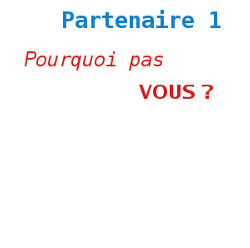
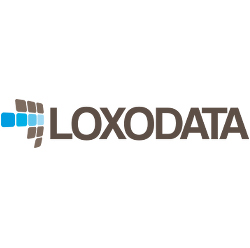
Révision agencement page home Ajout fil twitter Ajout pgday.paris (pas dans le footer c'est moche) Révision des cadres de partenaires

diff --git a/index.html b/index.html
@@ -113,69 +113,63 @@
 	     </div>
 	</div>
 </div>
+
+<section class="container">
+<div class="row">
+  <div class="col-xs-12 col-md-2 col-lg-2">
+  	<div class="logoBottom"><a href="http://pgday.paris"><img src="img/pgdayparis.png" alt="PGDay Paris"></a></div>
+  </div>
+
+  <div class="col-xs-12 col-md-6 col-lg-6">
+  	<h2>PGDay Paris et Belfort</h2>
+	<p>En 2015, deux évènements PostgreSQL auront lieu en France.
+	<br />Un pgDay à Paris le 21 avril et un à Belfort, le 2 juin.</p>
+	<p>Ces évènements sont organisés conjointement, en particulier avec le même comité de sélection des conférences.
+	<br />L'évènement Belfortain a pour objectif de présenter des exemples réussis d'adoption de PostgreSQL et de répondre aux questions 
+	des DSI françaises autour de l'adoption de PostgreSQL. L'événement parisien, plus international, se veut aussi plus technique.</p>
+	<p>Pour plus d'information sur l'événement de Paris, rendez-vous sur leur <a href="http://pgday.paris">site.</a></p>
+  </div>
+ 
+
+  <div class="col-xs-12 col-md-4 col-lg-4">
+  <h2>Twitter</h2>
+  <div class="panel panel-default">       	
+     <div class="panel-heading">
+        <p><small>Suivez le hashtag <a href="http://twitter.com/hashtag/pgday"><i class="fa fa-twitter"></i> #pgday</a>
+        pour les dernières informations</small></p>
+     </div>
+ 	<a class="twitter-timeline" href="https://twitter.com/hashtag/pgdaybelfort" data-widget-id="570719868123885568" height="388" data-chrome="noborders">Tweets sur #pgdaybelfort</a>
+ 	<script>!function(d,s,id){var js,fjs=d.getElementsByTagName(s)[0],p=/^http:/.test(d.location)?'http':'https';if(!d.getElementById(id)){js=d.createElement(s);js.id=id;js.src=p+"://platform.twitter.com/widgets.js";fjs.parentNode.insertBefore(js,fjs);}}(document,"script","twitter-wjs");</script>
+ </div>
+ </div>
+ 
+</div>
+</section>
+
+<section class="sponsors">
 <div class="container"><!-- Sponsors / Partenaires -->
 	<h4 class="margin-top">Partenaires de l'évènement</h4>
 	<div class="row">
-		<div class="col-xs-12 col-sm-6 col-md-3 img-gallery">
-			<div class="gallery-page-wrap">
-				<h5><a href="http://www.loxodata.com"><img src="img/sponsors/loxologo.png" alt="Loxodata"></a> </h5>
-				<p>Loxodata fournit de l'expertise, des formations et du conseil autour de PostgreSQL.</p>
-			</div>
+		<div class="col-xs-12 col-sm-3 col-md-3 panel panel-info">
+			<h5><a href="http://www.loxodata.com"><img src="img/sponsors/loxologo.png" alt="Loxodata"></a> </h5>
+			<p>Loxodata fournit de l'expertise, des formations et du conseil autour de PostgreSQL.</p>
 		</div>   
-		<div class="col-xs-12 col-sm-6 col-md-3 img-gallery">
-			<div class="gallery-page-wrap">
-				<h5><a href="http://2ndquadrant.com"><img src="img/sponsors/2ndquadrant_logo_full_color.jpg" alt="2nd Quadrant"></a> </h5>
-				<p>2ndQuadrant provides PostgreSQL training, consultancy and 24/7 support, including our unique ‘Platinum Production Support’ service for mission-critical environments.</p>
-			</div>
-               </div>
-		<div class="col-xs-12 col-sm-6 col-md-3 img-gallery">
-			<div class="gallery-page-wrap">
-				<h5><a href="http://www.belfort.cci.fr/"><img src="img/sponsors/logo_cci.jpg" alt="CCI Belfort"></a> </h5>
-				<p>CCI du territoire de Belfort</p>
-			</div>
-               </div>
-<!--		<div class="col-xs-12 col-sm-6 col-md-3 img-gallery">
-			<div class="gallery-page-wrap">
-				<img src="img/sponsors/partner-3.jpg" alt="photo">
-				<div class="overlay">
-					<div class="gallery-page-inner">
-						<h5><a href="#">PARTENAIRE 3</a> </h5>
-						<p>Montbéliard</p>
-						<a href="http://www.belfort.cci.fr/" data-lightbox="image-1" data-title="Space, space."><i class="fa fa-eye"></i> View</a>
-					</div> 
-				</div>
-			</div>
+		<div class="col-xs-12 col-sm-3 col-md-3 panel panel-info">
+			<h5><a href="http://2ndquadrant.com/fr/"><img src="img/sponsors/2ndquadrant_logo_full_color.jpg" alt="2nd Quadrant"></a></h5>
+			<p>2ndQuadrant provides PostgreSQL training, consultancy and 24/7 support, including our unique ‘Platinum Production Support’ service for mission-critical environments.</p>
+        </div>
+		<div class="col-xs-12 col-sm-6 col-md-6 panel panel-default">
+		<p><i>Devenez partenaire ou sponsor de l'évènement <a href="sponsors.html">voir infos</a>.</i>
 		</div>
-		<div class="col-xs-12 col-sm-6 col-md-3 img-gallery">
-			<div class="gallery-page-wrap">
-				<img src="img/sponsors/partner-4.jpg" alt="photo">
-				<div class="overlay">
-					<div class="gallery-page-inner">
-					 <h5><a href="#">PARTENAIRE 4</a> </h5>
-					<p>Delle</p>
-					<a href="#" data-lightbox="image-1" data-title="Space, space."><i class="fa fa-eye"></i> View</a>
-					</div> 
-				</div>
-			</div>
-		</div>
--->
 	</div>
 </div><!-- End partner -->
+</section>
 
  <!-- Footer -->
  <footer id="footer">
 
   <div class="footerTop">
 	<div class="container">
-		<div class="row">
- 			<div class="col-md-3 col-sm-3">
-				<p>En 2015, deux évènements PostgreSQL auront lieu en France. Un pgDay à Paris le 21 avril et un à Belfort, le 2 juin. Ces évènements sont organisés conjointement, en particulier avec le même comité de sélection des conférences. L'évènement Belfortain a pour objectif de présenter des exemples réussis d'adoption de PostgreSQL et de répondre aux questions des DSI françaises autour de l'adoption de PostgreSQL. L'événement parisien, plus international, se veut aussi plus technique.</p>
-				<p>Pour plus d'information sur l'événement de Paris, rendez-vous sur leur <a href="http://pgday.paris">site.</a></p>
-			</div>
-			<div class="col-md-3 col-sm-3">
-				<div class="logoBottom"> <img src="img/pgdayparis.png" alt="PGDay Paris"></div>
-			</div>
-		</div>
 		<div class="row">
 			<div class="col-md-3 col-sm-3">
 				<div class="logoBottom"><i class="fa fa-database"></i> PGDay France</div>
@@ -192,8 +186,7 @@
 				<div class="footerLinkList">
 					<a href="http://www.postgresql.org/about/press/presskit94/fr/"><i class="fa fa-newspaper-o"></i> La presse en parle</a>
 				</div>
-			</div>
-                
+			</div> 
 			<div class="col-md-3 col-sm-3">
 				<h5>Sponsor site Web et hébergement</h5>
 					<div class="footerLinkList">

diff --git a/css/main.css b/css/main.css
@@ -1066,6 +1066,7 @@ h4 {
 	margin-bottom: 12px;
 }
 
+.sponsors p {text-align: justify; font-size: 0.82em;}
 
 /* ----------------------------------------------------
 	 PORTFOLIO STYLES
